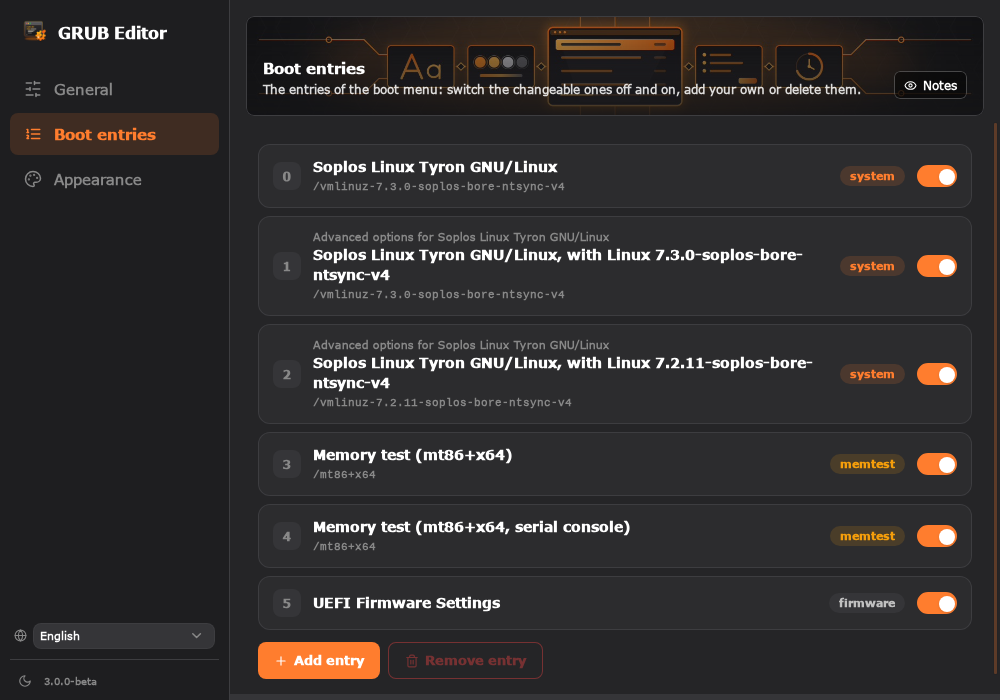
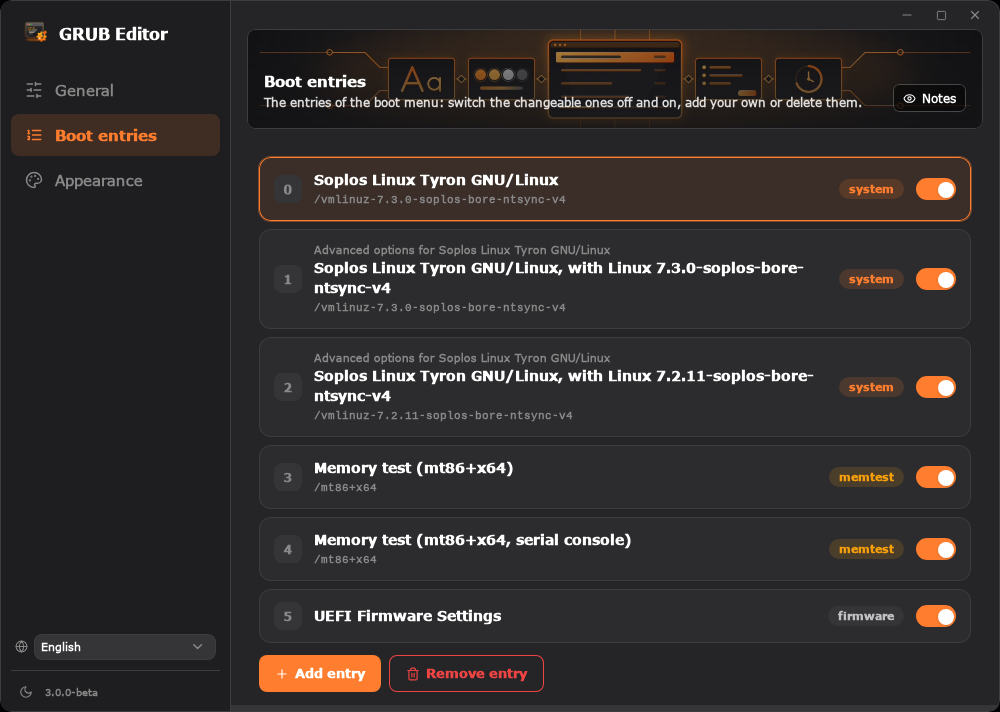
Frameless card window, new screenshots and bump to 3.0.0-3-beta

diff --git a/src/components/WindowControls.svelte b/src/components/WindowControls.svelte
@@ -1,0 +1,40 @@
+<script lang="ts">
+  import { getCurrentWindow } from "@tauri-apps/api/window";
+  import { _ } from "svelte-i18n";
+  import { Minus, Square, Copy, X } from "lucide-svelte";
+  import { maximized } from "../lib/window";
+
+  // The buttons of the window when the system draws no frame: minimize, maximize
+  // or restore, and close, at the top right of the card. They are plain icons;
+  // the accent of the theme shows under the pointer, and red only on close.
+  const win = getCurrentWindow();
+
+  const button = "grid h-[22px] w-8 place-items-center rounded text-text-muted transition-colors";
+</script>
+
+<div class="flex items-center gap-0.5">
+  <button
+    class="{button} hover:bg-primary/15 hover:text-primary"
+    title={$_("app.window.minimize")}
+    aria-label={$_("app.window.minimize")}
+    on:click={() => win.minimize()}
+  >
+    <Minus size={14} />
+  </button>
+  <button
+    class="{button} hover:bg-primary/15 hover:text-primary"
+    title={$maximized ? $_("app.window.restore") : $_("app.window.maximize")}
+    aria-label={$maximized ? $_("app.window.restore") : $_("app.window.maximize")}
+    on:click={() => win.toggleMaximize()}
+  >
+    {#if $maximized}<Copy size={11} />{:else}<Square size={11} />{/if}
+  </button>
+  <button
+    class="{button} hover:bg-danger hover:text-white"
+    title={$_("app.window.close")}
+    aria-label={$_("app.window.close")}
+    on:click={() => win.close()}
+  >
+    <X size={14} />
+  </button>
+</div>

diff --git a/src/App.svelte b/src/App.svelte
@@ -117,15 +117,23 @@
       select(tabs[(idx + dir + tabs.length) % tabs.length].id);
     }
   }
+  import WindowControls from "./components/WindowControls.svelte";
+  import { frameless, maximized } from "./lib/window";
 </script>
 
 <svelte:window on:keydown={handleKeydown} />
 
-<div class="flex h-screen overflow-hidden">
+<div class="h-screen bg-dark {$frameless && !$maximized ? 'window-card' : ''}">
+<div class="flex h-full overflow-hidden">
   <Sidebar {tabs} {active} onSelect={select} {appVersion} />
 
   <div class="flex-1 flex flex-col overflow-hidden min-w-0">
-    <div class="p-4 pb-0 shrink-0">
+    {#if $frameless}
+      <div class="relative h-7 shrink-0" data-tauri-drag-region>
+        <div class="absolute right-2 top-[3px]"><WindowControls /></div>
+      </div>
+    {/if}
+    <div class="p-4 pb-0 shrink-0 {$frameless ? 'pt-0' : ''}" data-tauri-drag-region="deep">
       <div
         class="relative flex min-h-[100px] items-end gap-3 overflow-hidden rounded border border-border p-4"
         style="background: linear-gradient(rgba(20, 20, 22, 0.25), rgba(20, 20, 22, 0.82)), url('/assets/hero/grub-editor-background.jpg'); background-size: cover; background-position: center;"
@@ -186,3 +194,4 @@
 {/if}
 
 <DialogHost />
+</div>

diff --git a/src/lib/window.ts b/src/lib/window.ts
@@ -1,0 +1,21 @@
+import { writable } from "svelte/store";
+import { getCurrentWindow } from "@tauri-apps/api/window";
+
+// Whether the system draws a frame around the window. With `decorations` off in
+// tauri.conf.json it does not: the window is one card with rounded corners (the
+// .window-card rule of global.css) and the program shows its own window buttons
+// (WindowControls.svelte). With it on, none of that shows.
+export const frameless = writable(false);
+export const maximized = writable(false);
+
+(async () => {
+  try {
+    const win = getCurrentWindow();
+    if (await win.isDecorated()) return;
+    frameless.set(true);
+    maximized.set(await win.isMaximized());
+    await win.onResized(async () => maximized.set(await win.isMaximized()));
+  } catch {
+    // Not inside Tauri (a browser while developing): leave the window as it is.
+  }
+})();

diff --git a/src/styles/global.css b/src/styles/global.css
@@ -38,12 +38,24 @@
 
   body {
     font-family: "Segoe UI", Tahoma, Geneva, Verdana, sans-serif;
-    background: theme("colors.dark");
+    /* The background is the one of the window card (App.svelte): the body stays
+       transparent so the corners of a window with no frame can be rounded. */
+    background: transparent;
     color: theme("colors.text.DEFAULT");
     height: 100vh;
     margin: 0;
     overflow: hidden;
   }
+}
+
+/*
+ * The window when the system draws no frame: one card with rounded corners.
+ * clip-path also cuts the dialogs (position: fixed), which overflow does not.
+ */
+.window-card {
+  border-radius: 12px;
+  border: 1px solid rgb(var(--color-border));
+  clip-path: inset(0 round 12px);
 }
 
 .content-scroll {

diff --git a/src/components/Sidebar.svelte b/src/components/Sidebar.svelte
@@ -23,7 +23,7 @@
   $: cleanVersion = appVersion.replace(/-\d+-/, "-");
 </script>
 
-<aside class="w-[230px] shrink-0 flex flex-col pt-[18px] px-[10px] pb-2 bg-panel border-r border-border">
+<aside class="w-[230px] shrink-0 flex flex-col pt-[18px] px-[10px] pb-2 bg-panel border-r border-border" data-tauri-drag-region>
   <div class="flex items-center gap-2 px-3 pb-[22px] font-bold text-[0.98rem] text-text-bright">
     <img src="/assets/icons/org.soplos.grubeditor.png" alt="Soplos" class="w-[28px] h-[28px] object-contain shrink-0" />
     <span class="whitespace-nowrap">GRUB Editor</span>

diff --git a/CHANGELOG.md b/CHANGELOG.md
@@ -2,6 +2,12 @@
 
 All notable changes to Soplos GRUB Editor are documented in this file.
 
+## [3.0.0-3-beta] - 2026-10-29
+
+### Changed
+
+- The window no longer has the frame of the system: it is a card with rounded corners and its own minimize, maximize and close buttons at the top right. It can be moved from the top strip, the banner and the side bar, and double click on the strip maximizes it. The rounded corners need a compositing manager running, as the one of Xfce, Plasma or GNOME.
+
 ## [3.0.0-2-beta] - 2026-10-28
 
 ### Changed

diff --git a/README.md b/README.md
@@ -1,6 +1,6 @@
 # Soplos GRUB Editor 3.0
 
-![Version](https://img.shields.io/badge/version-3.0.0--2--beta-blue)
+![Version](https://img.shields.io/badge/version-3.0.0--3--beta-blue)
 ![License](https://img.shields.io/badge/license-GPL--3.0--or--later-green)
 ![Platform](https://img.shields.io/badge/platform-Linux-lightgrey)
 ![Tauri](https://img.shields.io/badge/Tauri-2-orange)
